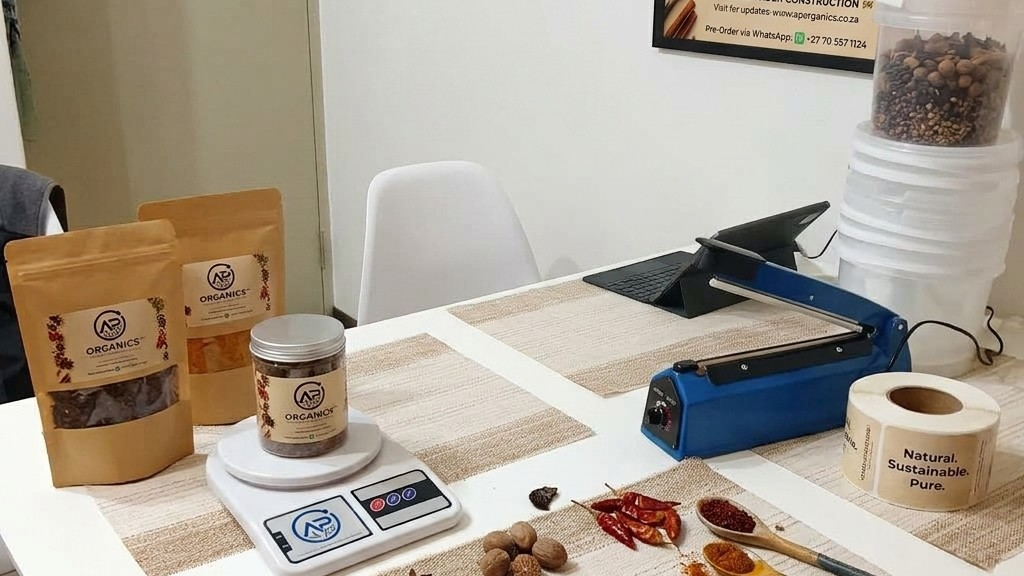
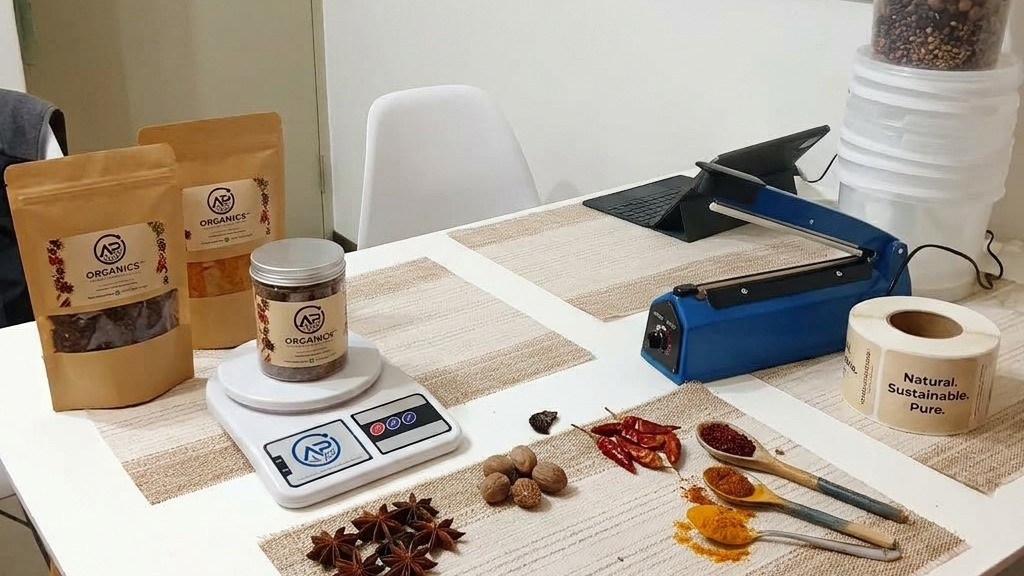
Hero carousel uses only the landing/ images
- Slides 1 and 3 now show the round logo badge, slide 2 the launch
  poster, slide 4 the packing table (all sourced from landing/).
- New badge background is padded with edge-stretched cream so cover
  never crops the circle; seams feathered.
- Re-crop the packing photo below the wall poster so no
  www.aporganics.co.za text remains in the hero.

diff --git a/index.html b/index.html
@@ -292,7 +292,7 @@
       <div class="swiper hero-carousel">
         <div class="swiper-wrapper">
 
-          <div class="swiper-slide hero-slide" style="background-image: url('images/Gemini_Generated_Image_cwkmifcwkmifcwkm_16x9.jpeg')">
+          <div class="swiper-slide hero-slide" style="background-image: url('images/Gemini_Generated_Image_ywxd19ywxd19ywxd_hero.jpeg?v=1')">
             <div class="hero-overlay"></div>
             <div class="hero-slide-content text-center">
               <h1 class="display-4 fw-bold mb-3">Pure Organic Spices, Herbs &amp; Adaptogens</h1>
@@ -314,7 +314,7 @@
             </div>
           </div>
 
-          <div class="swiper-slide hero-slide" style="background-image: url('images/Gemini_Generated_Image_8sf5is8sf5is8sf5_16x9.jpeg?v=2')">
+          <div class="swiper-slide hero-slide" style="background-image: url('images/Gemini_Generated_Image_ywxd19ywxd19ywxd_hero.jpeg?v=1')">
             <div class="hero-overlay"></div>
             <div class="hero-slide-content text-center">
               <h1 class="display-4 fw-bold mb-3">Braai Season, Sorted.</h1>
@@ -325,7 +325,7 @@
             </div>
           </div>
 
-          <div class="swiper-slide hero-slide" style="background-image: url('images/Gemini_Generated_Image_dz4q3mdz4q3mdz4q_16x9.jpeg')">
+          <div class="swiper-slide hero-slide" style="background-image: url('images/Gemini_Generated_Image_dz4q3mdz4q3mdz4q_16x9.jpeg?v=2')">
             <div class="hero-overlay"></div>
             <div class="hero-slide-content text-center">
               <h1 class="display-4 fw-bold mb-3">Premium Organic Botanicals</h1>
